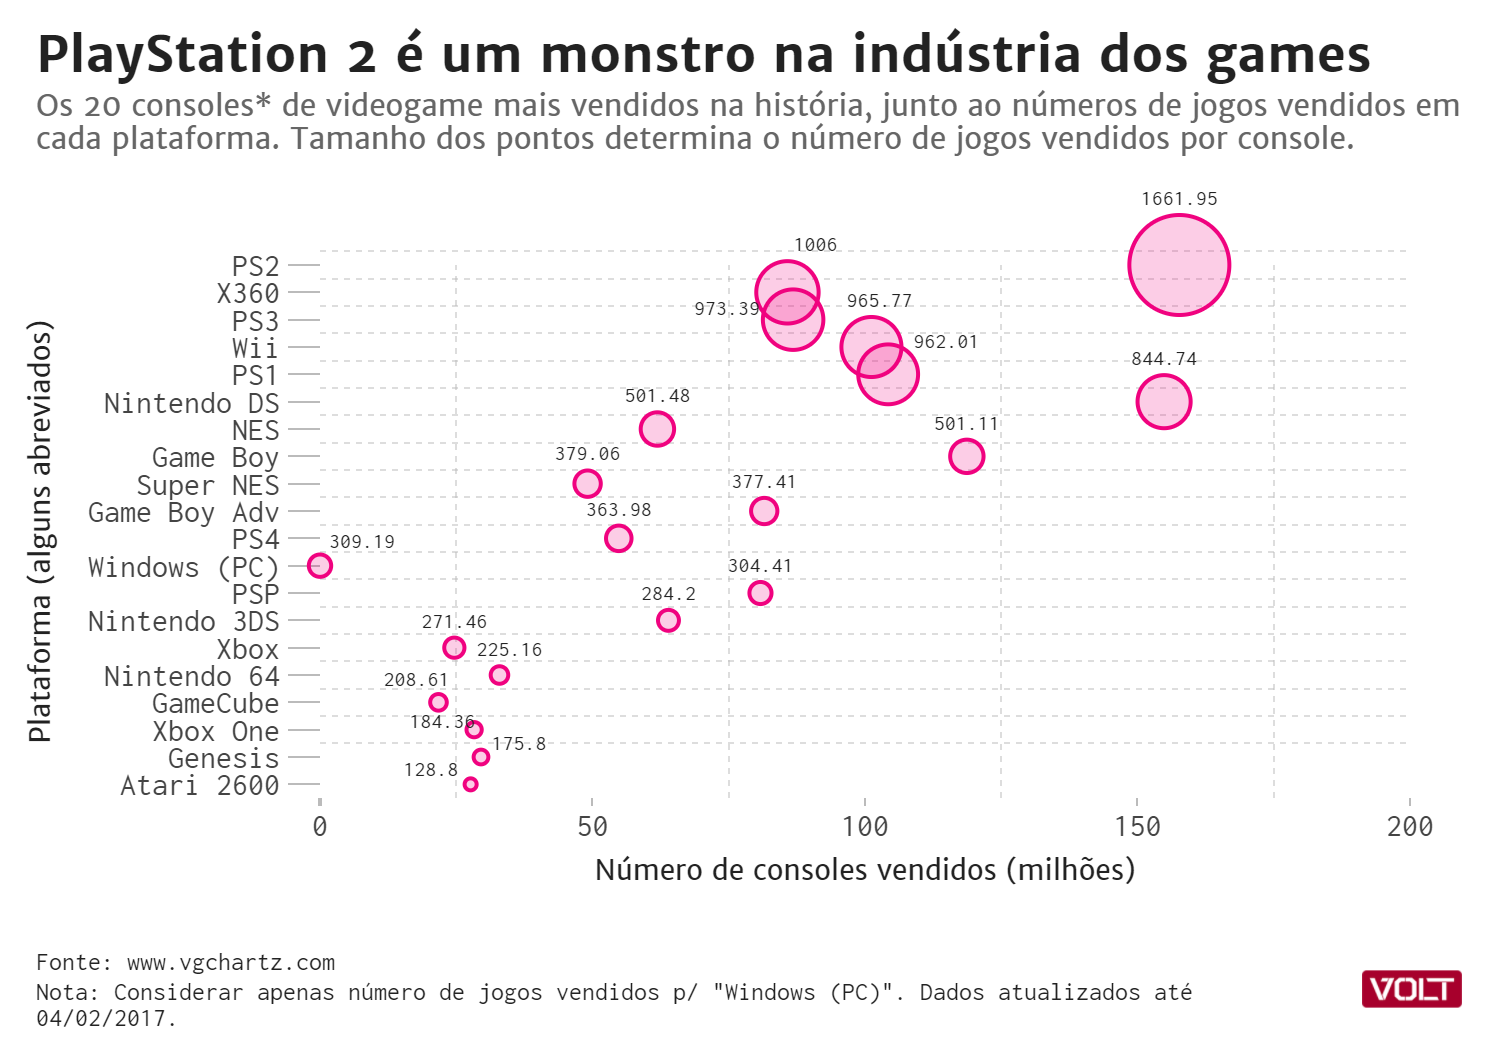
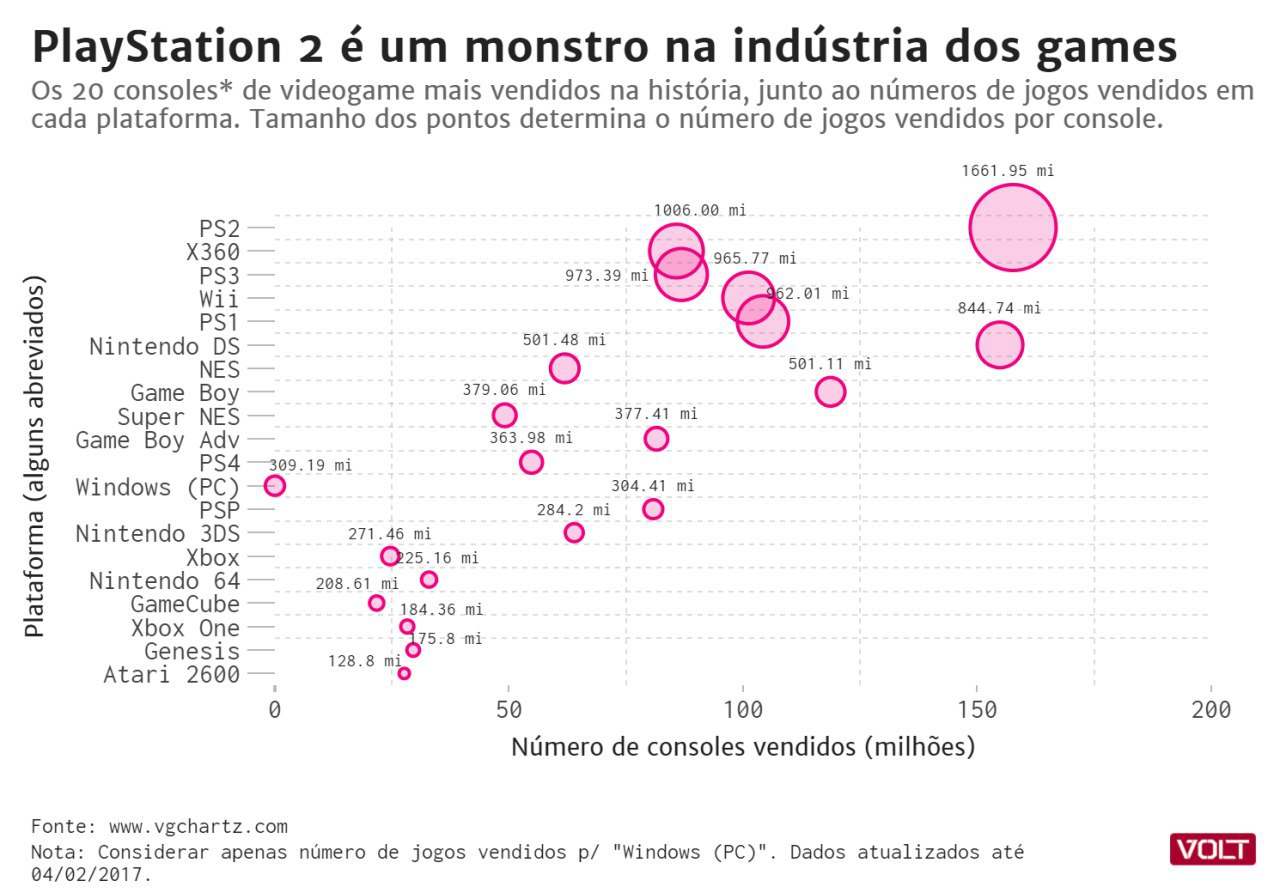
atualiza post games

diff --git a/_site/vendas-videogames.html b/_site/vendas-videogames.html
@@ -117,6 +117,15 @@
 
 
             
+            <br />
+            <hr />
+            <div class="secondary-info">
+                <p>
+                  <em><span style="font-size:.8em">Publicação alterada em 08.03.2017
+                    para esclarecer a escala utilizada na venda de jogos (em milhões), nos círculos do gráfico
+                  </span></em>
+                </p>
+            </div>
             
 
             
@@ -137,6 +146,8 @@
             <div class="category-list">
                 <p>Publicado em <span>08.03.2017</span>
                 
+                <br />atualizado em <span><strong>08.03.2017</strong></span>
+
                 
                   </p>
                   </div>

diff --git a/_posts/2017-03-08-vendas-videogames.md b/_posts/2017-03-08-vendas-videogames.md
@@ -10,6 +10,8 @@ author_avatar: felippe
 show_avatar: true
 feature_image: vendas-videogames.png
 show_related_posts: true
+atualiza_data: 08.03.2017
+atualiza_texto: 'esclarecer a escala utilizada na venda de jogos (em milhões), nos círculos do gráfico'
 tags:
   - 'videogames, '
   - 'consoles, '
